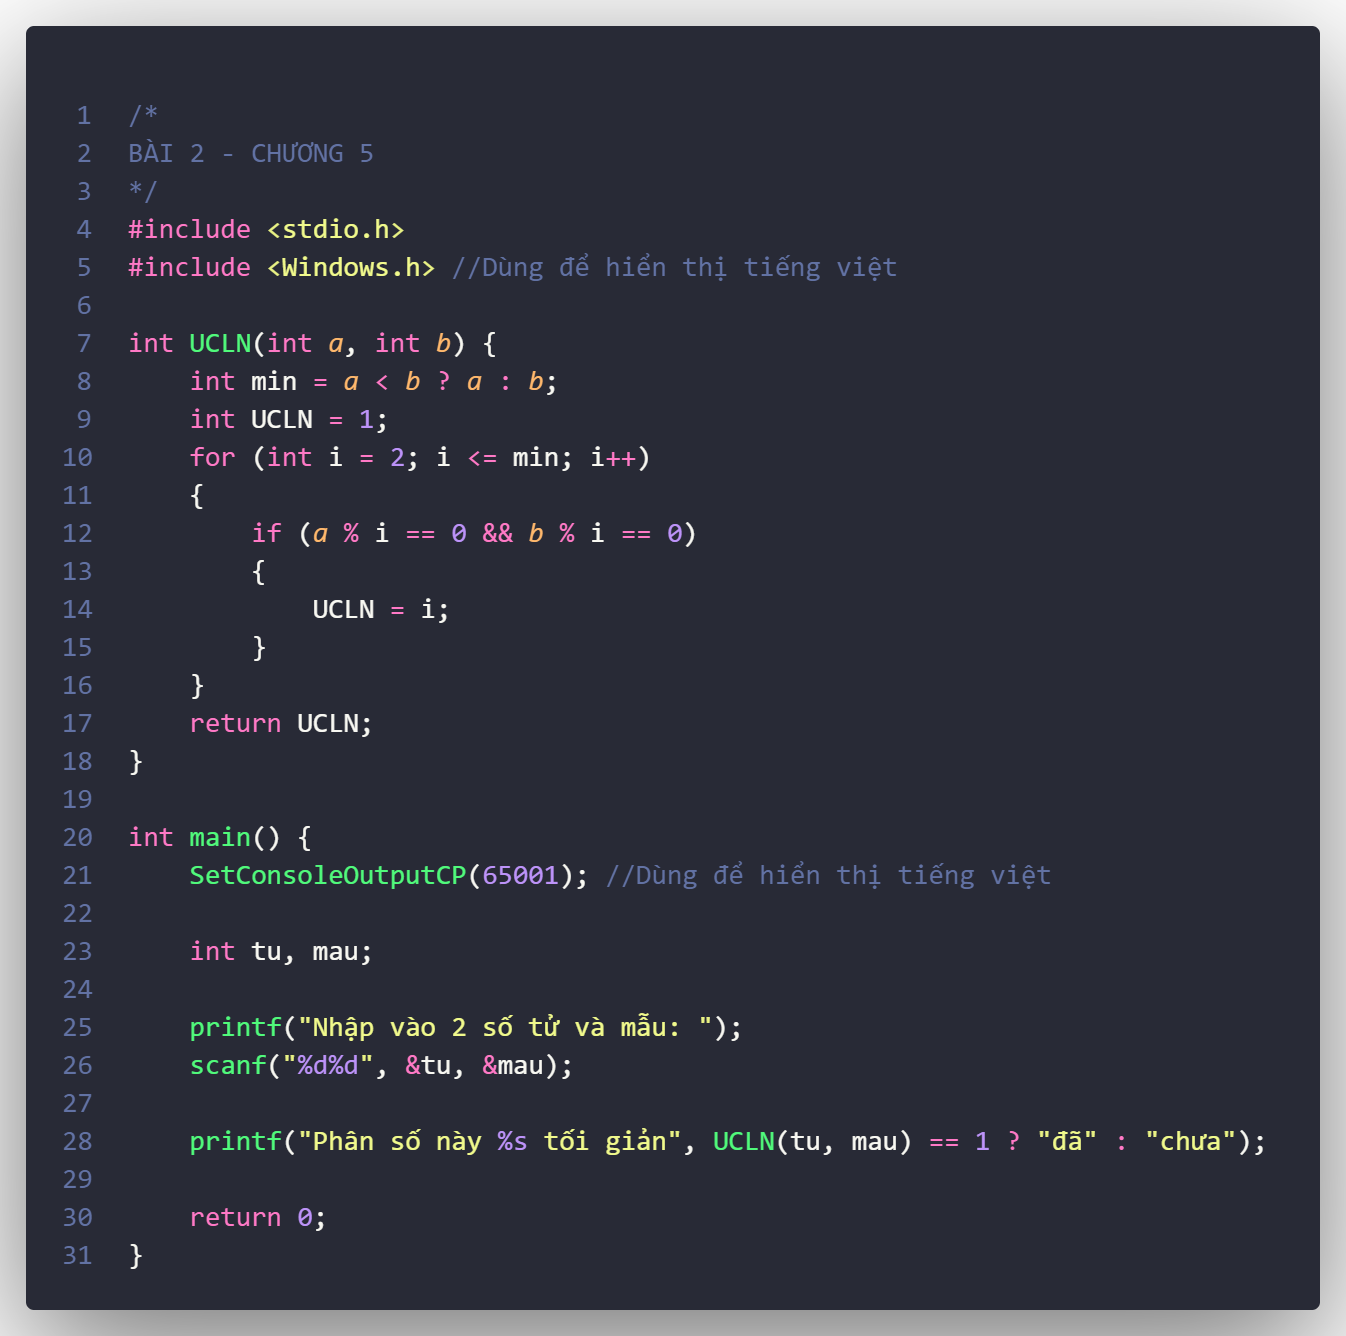
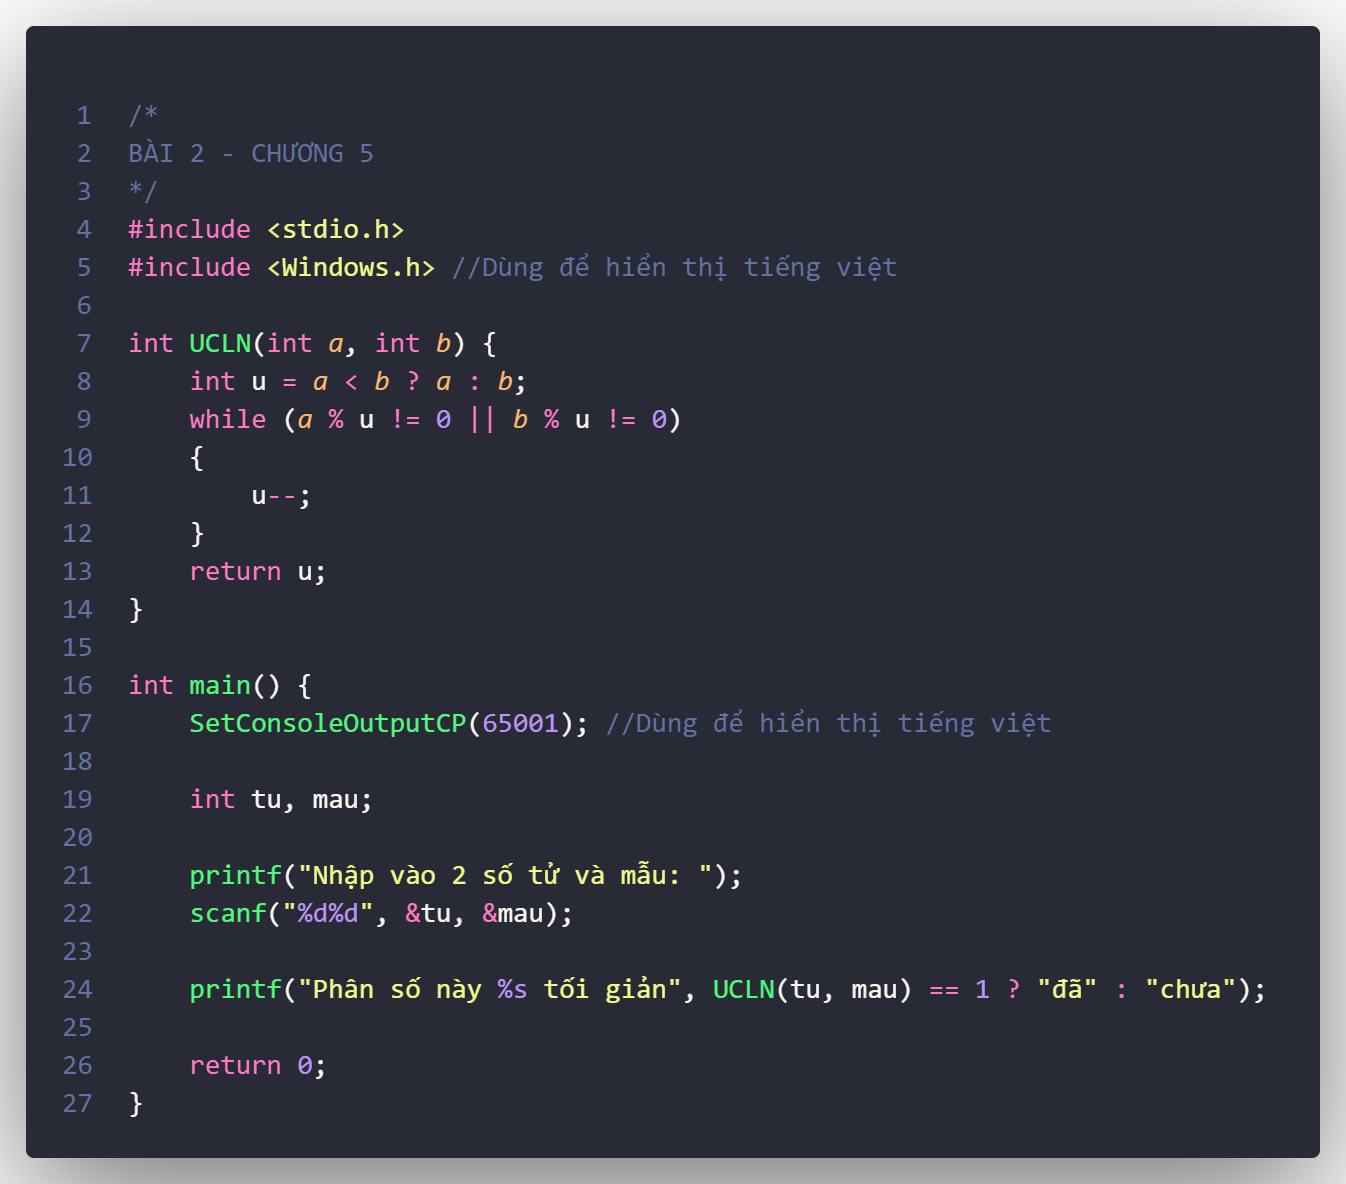
Chuong 5

diff --git a/chuong_05/bai5.c b/chuong_05/bai5.c
@@ -1,0 +1,38 @@
+/*
+BÀI 5 - CHƯƠNG 5
+*/
+#include <stdio.h>
+#include <Windows.h> //Dùng để hiển thị tiếng việt
+
+int GiaiThua(int n) 
+{
+    if (n == 0)
+    {
+        return 1;
+    }
+    else
+        return n*GiaiThua(n - 1);
+    
+}
+
+int ToHop(int n, int k) 
+{
+    return GiaiThua(n) / (GiaiThua(k) * GiaiThua(n-k));
+}
+
+int main() {
+    SetConsoleOutputCP(65001); //Dùng để hiển thị tiếng việt
+    int n;
+    printf("Nhập vào n: ");
+    scanf("%d", &n);
+
+    for (int i = 0; i <= n; i++)
+    {
+        for (int j = 0; j < i + 1; j++)
+        {
+            printf("%d ", ToHop(i, j));
+        }
+        printf("\n");
+    }
+    return 0;
+}

diff --git a/chuong_05/bai6.c b/chuong_05/bai6.c
@@ -1,0 +1,36 @@
+/*
+BÀI 6 - CHƯƠNG 5
+*/
+#include <stdio.h>
+#include <Windows.h> //Dùng để hiển thị tiếng việt
+
+int ToHop(int n, int k)
+{
+    if (k == 0 || k == n)
+    {
+        return 1;   
+    }
+    else
+    {
+        return ToHop(n - 1, k - 1) + ToHop(n - 1, k);
+    }
+}
+
+int main() {
+    SetConsoleOutputCP(65001); //Dùng để hiển thị tiếng việt
+    
+    int n;
+    printf("Nhập vào n: ");
+    scanf("%d", &n);
+
+    for (int i = 0; i <= n; i++)
+    {
+        for (int j = 0; j < i + 1; j++)
+        {
+            printf("%d ", ToHop(i, j));
+        }
+        printf("\n");
+    }
+
+    return 0;
+}

diff --git a/chuong_05/bai8.c b/chuong_05/bai8.c
@@ -1,0 +1,29 @@
+/*
+BÀI 8 - CHƯƠNG 5
+*/
+#include <stdio.h>
+#include <Windows.h> //Dùng để hiển thị tiếng việt
+
+int Fib(int n)
+{
+    if (n == 1 || n == 2)
+    {
+        return n;
+    }
+    else
+    {
+        return Fib(n - 1) + Fib(n - 2);
+    }
+    
+}
+
+int main() {
+    SetConsoleOutputCP(65001); //Dùng để hiển thị tiếng việt
+
+    for (int i = 1; i < 10; i++)
+    {
+        printf("%d ", Fib(i));
+    }
+
+    return 0;
+}

diff --git a/chuong_05/bai7.c b/chuong_05/bai7.c
@@ -1,0 +1,28 @@
+/*
+BÀI 7 - CHƯƠNG 6
+*/
+#include <stdio.h>
+#include <math.h>
+#include <Windows.h> //Dùng để hiển thị tiếng việt
+
+int mu(int x, int n)
+{
+    if (n == 0)
+    {
+        return 1;
+    }
+    else 
+    {
+        return pow(x, n) + mu(x, n-1);
+    }
+}
+
+int main() {
+    SetConsoleOutputCP(65001); //Dùng để hiển thị tiếng việt
+
+    int n, x;
+
+    printf("%d ", mu(2, 1));
+
+    return 0;
+}

diff --git a/chuong_05/bai2.c b/chuong_05/bai2.c
@@ -5,16 +5,12 @@ BÀI 2 - CHƯƠNG 5
 #include <Windows.h> //Dùng để hiển thị tiếng việt
 
 int UCLN(int a, int b) {
-    int min = a < b ? a : b;
-    int UCLN = 1;
-    for (int i = 2; i <= min; i++)
+    int u = a < b ? a : b;
+    while (a % u != 0 || b % u != 0)
     {
-        if (a % i == 0 && b % i == 0)
-        {
-            UCLN = i;
-        }
+        u--;
     }
-    return UCLN;
+    return u;
 }
 
 int main() {
